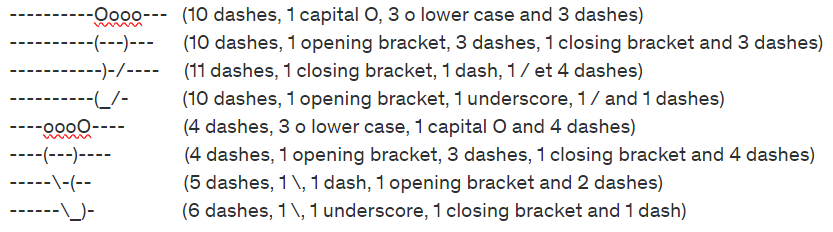
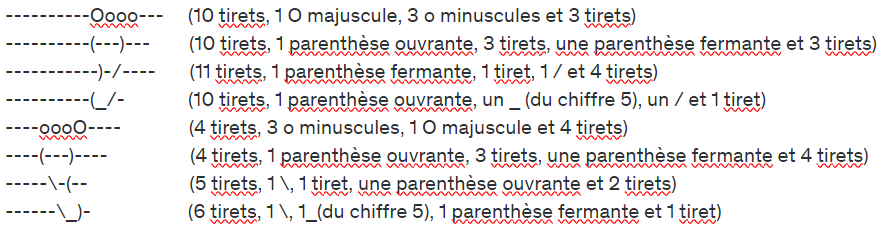
exos 1 et 2 en francais

diff --git a/002-Write-Vertically/solution/java/Vertical.java b/002-Write-Vertically/solution/java/Vertical.java
@@ -1,19 +1,17 @@
 public class Vertical {
 
     public static void main(String[] args) {
-        char letter='W';
-        System.out.println(letter);
-        letter='i';
-        System.out.println(letter);
-        letter='l';
-        System.out.println(letter);
-        System.out.println(letter);
-        letter='i';
-        System.out.println(letter);
-        letter='a';
-        System.out.println(letter);
-        letter='m';
-        System.out.println(letter);
+        char lettre='J';
+        System.out.println(lettre);
+        lettre='e';
+        System.out.println(lettre);
+        lettre='a';
+        System.out.println(lettre);
+        lettre='n';
+        System.out.println(lettre);
+        System.out.println(lettre);
+        lettre='e';
+        System.out.println(lettre);
     }
 
 }

diff --git a/002-Write-Vertically/requirements.md b/002-Write-Vertically/requirements.md
@@ -1,32 +1,30 @@
-# Practical 002 - Write your name vertically
+# Exercice 002 - Ecrire à la verticale : Première variable
 
-## Goal
-By the end of this exercise, you will be able to declare and initialize a variable.
+## Objectif
+A la fin de cet exercice, vous serez capable de déclarer et initialiser une variable.
 
-## Requirements
-In this exercise, you'll use a variable to display your first name vertically on the screen, with each letter appearing on a new line. For example:
+## Expression du besoin
+Il s’agit d’écrire à l’écran votre prénom à la verticale, c’est à dire une lettre par ligne comme ci-dessous :
 
-W
-i
-l
-l
-i
+J
+e
 a
-m
+n
+n
+e
 
-You'll use a variable to store each letter one at a time.
-Then, you'll display the content of this variable line by line.
+Une variable se chargera d’accueillir successivement chacune des lettres.
+C’est bien évidemment le contenu de cette variable qu’il faudra afficher sur chaque ligne.
 
-## Template
-If you don't know where to start:
+## Modèle
+Si vous ne savez pas par où commencer :
 
     public class Vertical {
         public static void main(String[] args) {
-            letter='';
+            lettre='';
         }
     }
 
-## Tip
-To display your name vertically, consider using a loop.
-In each iteration, extract a single letter from your name and store it in a variable.
-Then, print the content of this variable to display the letter on a new line.
+## Astuce
+Pour écrire à la verticale, considérez l'utilisation d'une boucle.
+A chaque itération, vous pouvez extraire la lettre suivante de votre nom et la placer dans une variable. Comme une variable peut changer de valeur, vous n'avez besoin dans cet exercice que d'une seule variable. 

diff --git a/001-ASCII-Text-Art/requirements.md b/001-ASCII-Text-Art/requirements.md
@@ -1,15 +1,15 @@
-# Practical 001 - ASCII Text Art
+# Exercice 001 - ASCII Text Art
 
-## Goal
-By the end of this exercise, you will be able to use Java to print out content in the console, including special characters.
+## Objectif
+A la fin de cet exercice, vous serez capable d'afficher du texte dans la console avec Java, y compris des charactères spéciaux.
 
-## Requirements
-Display in the console the following pattern using only the instruction `System.out.println()`:
+## Expression du besoin
+Affichez dans la console le dessin suivant, en utilisant uniquement l'instruction `System.out.println()`:
 
 ![foot-steps.png](resources/foot-steps.png)
 
-## Template
-If you don't know where to start:
+## Modèle
+Si vous ne savez pas par où commencer :
 
     public class AsciiArt {
         public static void main(String... args){
@@ -18,7 +18,7 @@ If you don't know where to start:
         }
     }
 
-## Tip
-Special characters like &#92; or &rdquo; for instance must be escaped (goes before) by a &#92;
+## Astuce
+Les caractères spéciaux tels que &#92; ou &rdquo; par exemple doivent être échappés (prefixés) par un &#92;
 
-Example: &#92;&#92; becomes &#92;
+Exemple: &#92;&#92; devient &#92;
